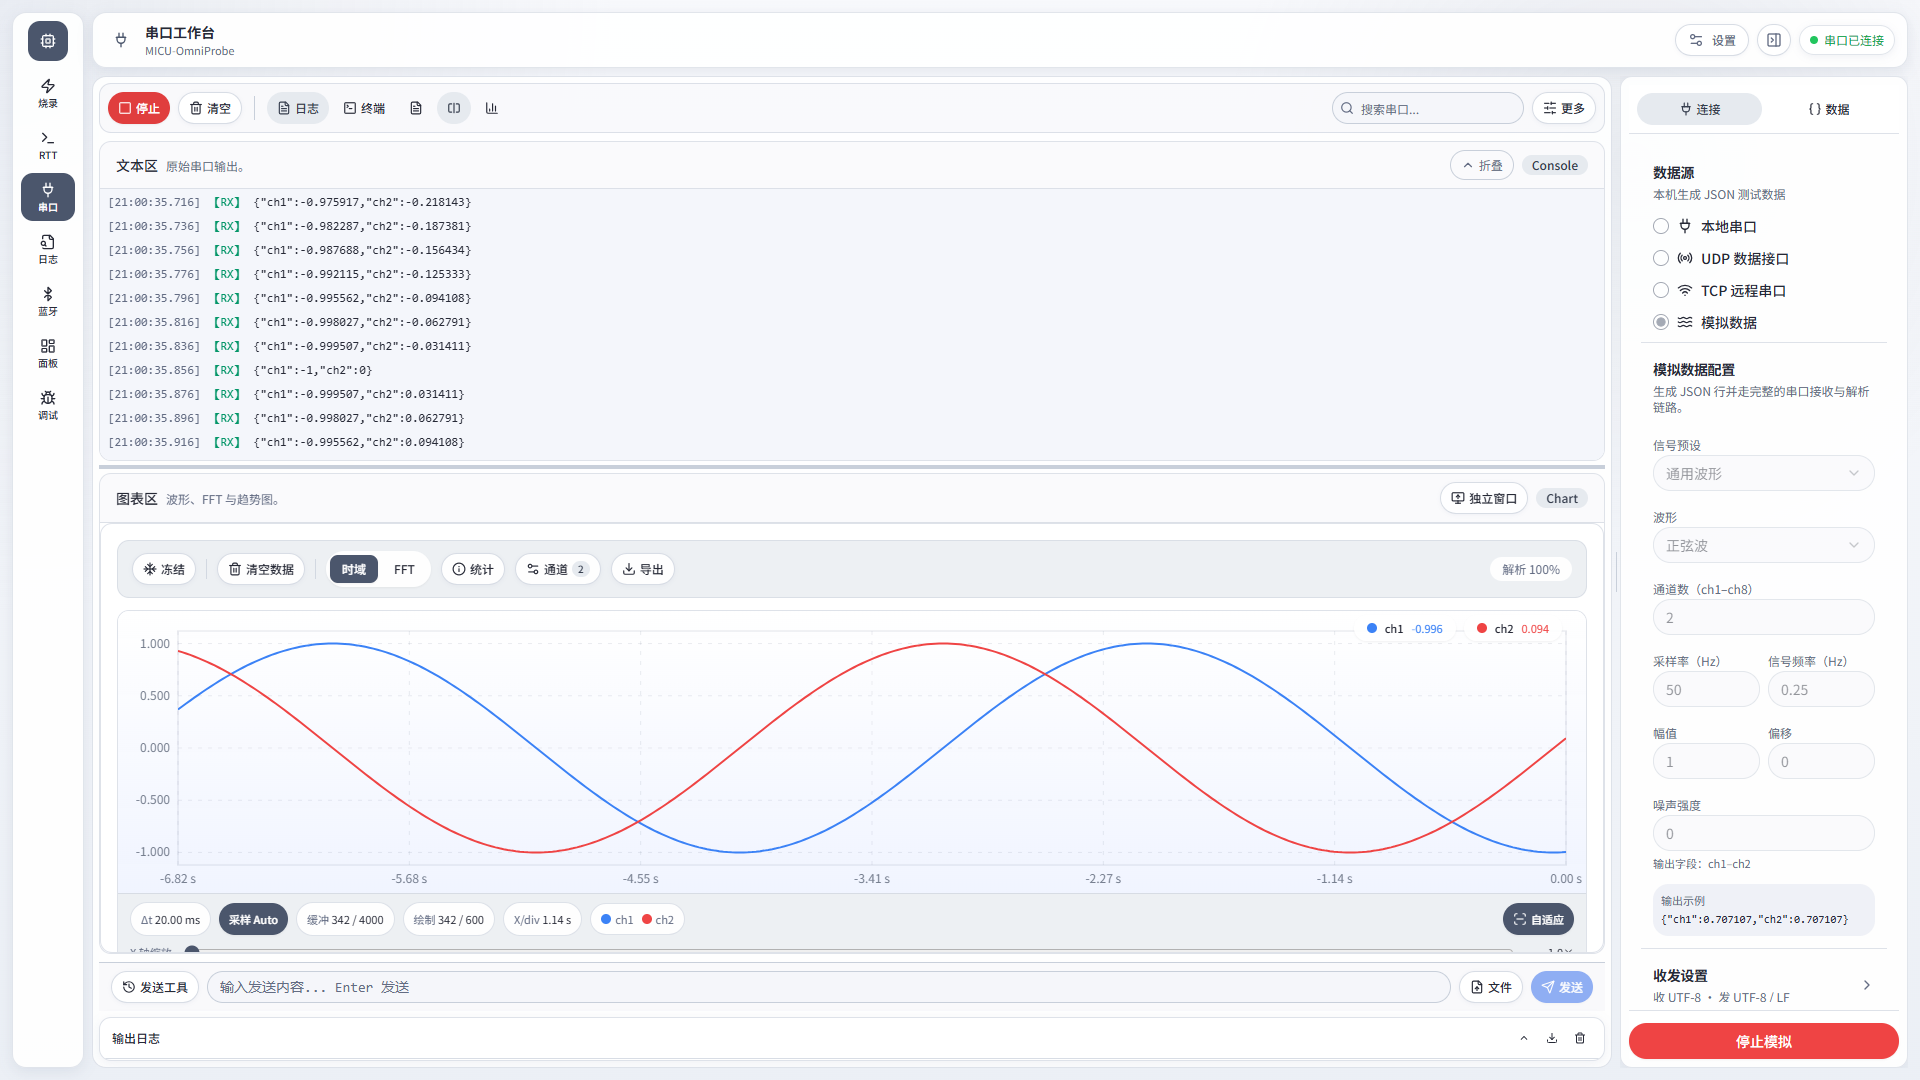
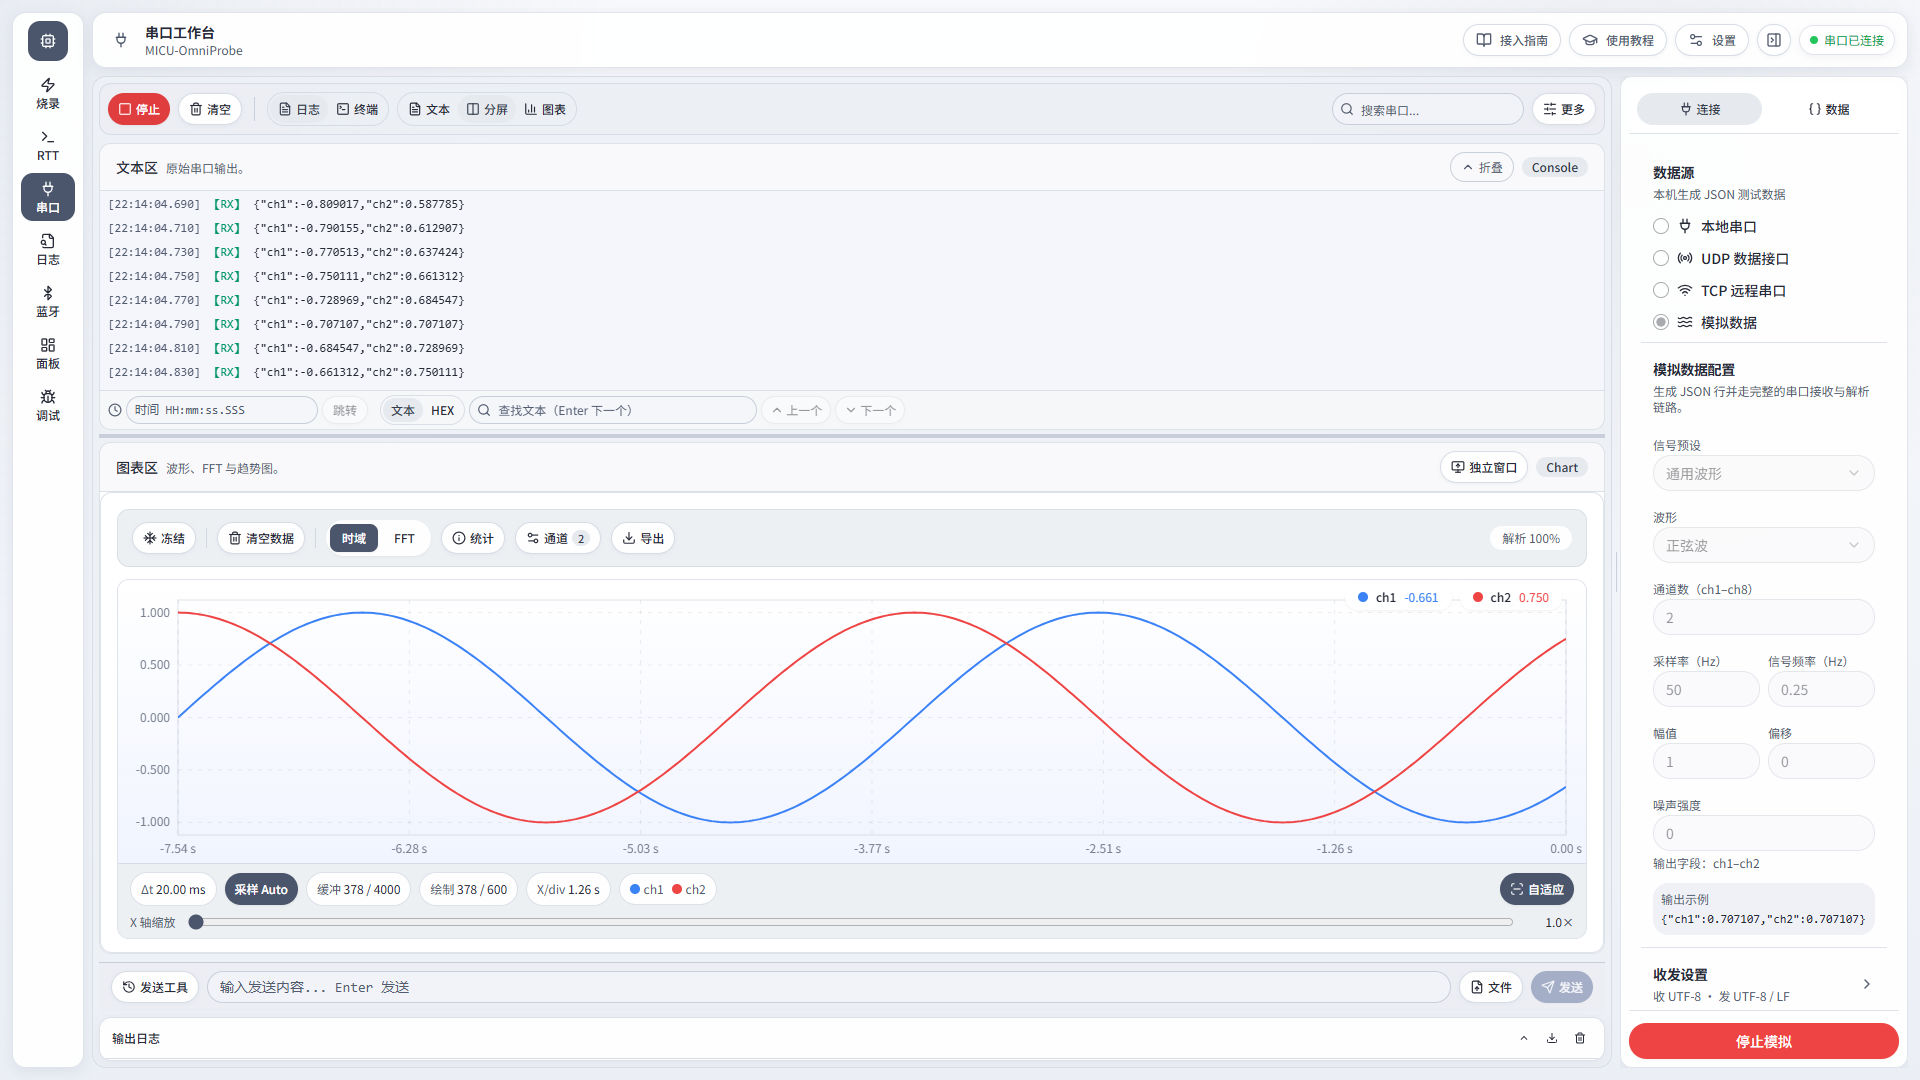
docs: 更新 README 与 CHANGELOG，重拍界面截图
- README 功能表、快速开始、文档索引按新功能更新，界面预览新增 RTT、调试、烧录截图
- 原有 5 张截图按新界面重拍
- CHANGELOG 新增未发布版本条目

diff --git a/CHANGELOG.md b/CHANGELOG.md
@@ -5,6 +5,55 @@
 格式基于 [Keep a Changelog](https://keepachangelog.com/zh-CN/1.0.0/)，
 版本号遵循 [语义化版本](https://semver.org/lang/zh-CN/)。
 
+## [未发布]
+
+本次更新把界面上"有入口但没生效"的功能全部补齐，并新增顶栏帮助入口和烧录、调试两本手册。
+
+### 新增
+
+- 顶栏右上角新增「接入指南」和「使用教程」：任意工作台都能打开 RTT 固件接入指南；「使用教程」按当前工作台打开对应的在线手册
+- 烧录工具栏「复位」「停止」「运行」可用，作用于当前烧录连接；「停止」后在日志中显示 PC
+- 烧录工具栏「解锁芯片」：以整片擦除权限重新连接并擦除全部 Flash，执行前弹窗确认；不需要先连接，芯片被锁、普通连接失败时也能使用
+- 新增「保存项目 / 打开项目」（`.omniproj`），保存固件路径、芯片、接口设置、复位方式和烧录设置
+- 「读取」改为对话框，可设置起始地址和长度，默认读取主 Flash 全部内容，可一键选择 Flash 区域
+- 调试工作台面板布局自动保存，离开工作台或重启后恢复；「重置布局」恢复默认
+- RTT 与蓝牙图表配置开放「滤波」分类，与串口一致
+- RTT 图表选择 CAN / SLCAN 解析时可直接添加信号或导入 DBC
+- 分隔符解析支持 `\t`、`\r`、`\n`、`\\`、`\xHH` 转义
+
+### 变更
+
+- 配置检查器「复位方式」开始生效：烧录与调试工具栏的「复位」、烧录后复位都按所选方式执行，硬件复位通过探针拉低 nRST；连接期间也可切换
+- 「校验」支持 HEX / ELF / AXF / OUT，只比对 Flash 范围内的段，不一致时报告首个不匹配地址及两边的字节值
+- 烧录、擦除、校验、读取、解锁进行中不再计入自动断开的空闲时间
+- 观察和全局变量面板按 1 / 2 / 4 / 8 字节小端显示十六进制和十进制，最高位为 1 时附带有符号值
+- 地址断点自动清除 Thumb 地址最低位，可直接填写函数符号地址
+- 触发捕获冻结时显示的就是捕获窗口；恢复跟随后滚动缓冲区中的历史数据仍在（串口、RTT、蓝牙一致）
+- 颜色设置对话框的示例按当前标记语法生成并实时预览；保存后同时作用于 RTT、串口和蓝牙
+- RTT 会话录制同时保存接收分帧设置
+- 图表空状态提示按工作台给出正确的配置入口
+
+### 修复
+
+- 断点面板「命中」次数始终为 0
+- 观察面板中长度小于 4 字节的项不显示数值；全局变量中 1、2 字节变量收起后只显示 `XX...`
+- 单步后寄存器、全局变量和观察面板不刷新
+- 目标停在非断点位置（如固件中的 BKPT 指令）时状态误报为「断点」，现显示「未知」
+- 带 `::` 的符号名（如 `ns::var`）未写长度时误按 4 字节读取
+- 颜色标记 `[/]` 无法关闭标记、`bg-*` 标记不生效、自定义关闭标记被忽略；日志中的 `[INFO]` 等普通方括号文字被吞掉
+- 触发捕获「单次」模式点击「恢复跟随」后无法重新武装；同一批数据中触发后仍有剩余样本时触发点位置偏移
+- 切换到烧录工作台时提示"会停止 RTT 数据接收"与实际行为不符（烧录期间只暂停读取，完成后自动恢复），已去掉该提示
+- 升级时改为显示旋转图标和「升级中…」，不再显示可能不准确的下载进度
+- 文本区定位栏在窄宽度（如 RTT 左右分屏）下查找框和「上一个 / 下一个」被截断，现改为自动换行
+
+### 文档
+
+- 新增 [烧录工作台手册](docs/FLASH_USER_MANUAL.md) 和 [调试工作台手册](docs/DEBUG_USER_MANUAL.md)
+- 快速入门覆盖全部 7 个工作台、顶栏按钮和完整快捷键
+- RTT 手册、图表、XY 散点、触发捕获、会话录制按当前界面重写
+- 串口、蓝牙、日志分析、控制面板、设置中心、AI 数据桥接、数据格式、滤波文档逐项核对并补全
+- 修复在线文档中以数字开头的锚点链接失效
+
 ## [3.2.2] - 2026-10-21
 
 3.2.2 记住连接成功过的芯片，重启后不必再手动输入芯片全称。
